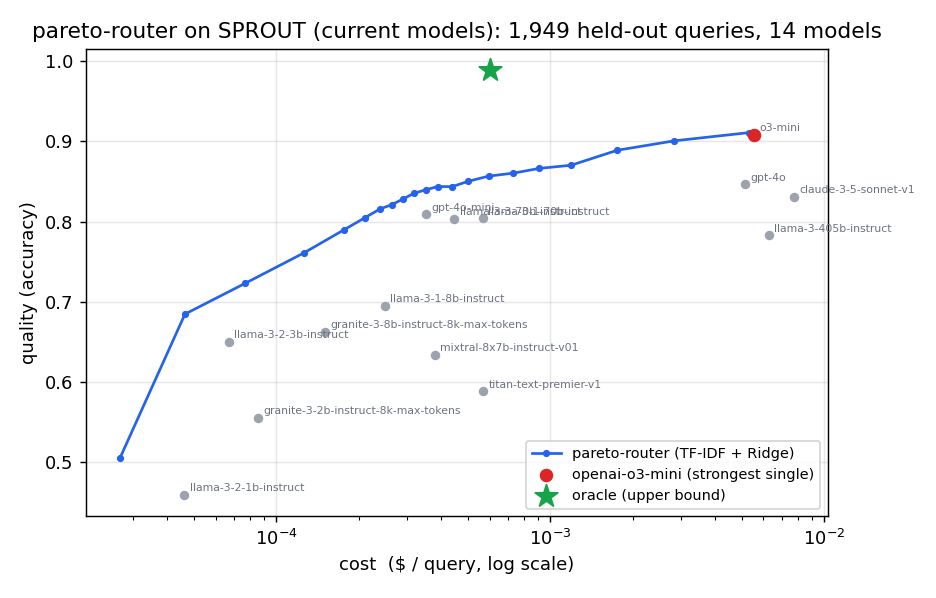
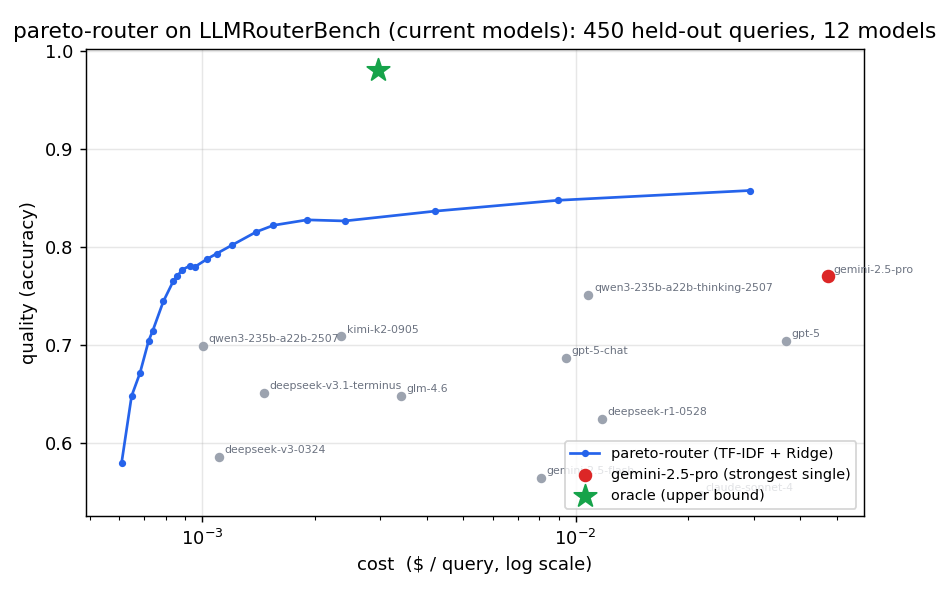
Default benchmark to LLMRouterBench (current frontier models)
Add load_llmrouterbench (Li et al., 2026): the current frontier pool - gpt-5,
claude-sonnet-4, gemini-2.5-pro, qwen3-235b, deepseek-v3.1, kimi-k2, glm-4.6, ...
with each query's real per-call cost; parsing the 1.28 GB archive is cached.
Make it the CLI default and re-plot on it. On 450 held-out queries (12 models):
the router matches gemini-2.5-pro's quality at 98% lower cost, exceeds any single
model at equal cost (0.86 vs 0.77), and dominates all 12.

Add a 'Model-agnostic by design' section: the router never sees a model name, so
a pool is just a dataset (LLMRouterBench / SPROUT / RouterBench / bench_gen). A
public benchmark always trails the newest models; regenerate the dataset, not the
router. Citations verified (LLMRouterBench 2601.07206).

diff --git a/pareto_router/data.py b/pareto_router/data.py
@@ -149,6 +149,88 @@ def load_sprout(variant: str = "o3mini", split: str = "test",
 
 
 # =============================================================================
+# LLMRouterBench - current flagship pool (GPT-5, Claude-4, Gemini-2.5-Pro, ...)
+# =============================================================================
+
+LLMROUTERBENCH_REPO = "NPULH/LLMRouterBench"
+# The current frontier + strong open-weight subset of the 33-model release. Each record
+# already carries a real per-call cost (dollars), so no price table is needed.
+LLMROUTERBENCH_FLAGSHIP = [
+    "gpt-5", "gpt-5-chat", "claude-sonnet-4", "gemini-2.5-pro", "gemini-2.5-flash",
+    "qwen3-235b-a22b-2507", "qwen3-235b-a22b-thinking-2507", "deepseek-v3.1-terminus",
+    "deepseek-r1-0528", "deepseek-v3-0324", "kimi-k2-0905", "glm-4.6",
+]
+
+
+def load_llmrouterbench(models: Optional[List[str]] = None,
+                        cache_dir: Optional[str] = None) -> RoutingDataset:
+    """Load LLMRouterBench (Jan 2026) into a :class:`RoutingDataset`.
+
+    The release is a 1.28 GB archive of ``bench-release/<task>/<model>/*.json`` files;
+    each record has a per-query ``score`` and real ``cost``. Queries are aligned across
+    models by (task, index). Parsing is cached next to the download, so only the first
+    call is slow. ``models`` defaults to the current flagship subset.
+    """
+    import json
+    import os
+    import pickle
+    import tarfile
+
+    _pd, hf_hub_download = _bench_imports()
+    models = list(models or LLMROUTERBENCH_FLAGSHIP)
+    path = hf_hub_download(LLMROUTERBENCH_REPO, "bench-release.tar.gz",
+                           repo_type="dataset", cache_dir=cache_dir)
+    cache = f"{path}.routing-{len(models)}.pkl"
+    if os.path.exists(cache):
+        with open(cache, "rb") as fh:
+            return pickle.load(fh)
+
+    pool = set(models)
+    cells: Dict[tuple, Dict[str, tuple]] = {}
+    prompts: Dict[tuple, str] = {}
+    with tarfile.open(path, "r:gz") as tf:
+        for member in tf:
+            if not member.name.endswith(".json"):
+                continue
+            parts = member.name.split("/")  # bench-release/<task>/<model>/<file>.json
+            if len(parts) < 4 or parts[2] not in pool:
+                continue
+            task, model = parts[1], parts[2]
+            try:
+                payload = json.load(tf.extractfile(member))
+            except Exception:  # pragma: no cover - skip a corrupt shard
+                continue
+            for rec in payload.get("records", []):
+                score, cost = rec.get("score"), rec.get("cost")
+                if score is None or cost is None:
+                    continue
+                key = (task, rec.get("index"))
+                cells.setdefault(key, {})[model] = (float(score), float(cost))
+                prompts.setdefault(key, rec.get("origin_query") or rec.get("prompt") or "")
+
+    keys = sorted(k for k, v in cells.items() if len(v) == len(models))
+    n, m = len(keys), len(models)
+    quality = np.zeros((n, m))
+    cost = np.zeros((n, m))
+    for i, key in enumerate(keys):
+        for j, model in enumerate(models):
+            score, c = cells[key][model]
+            quality[i, j] = score
+            cost[i, j] = c
+    quality = np.clip(quality, 0.0, 1.0)
+    dataset = RoutingDataset(
+        prompts=[prompts[k] for k in keys],
+        models=models,
+        quality=quality,
+        cost=cost,
+        eval_name=np.array([k[0] for k in keys]),
+    )
+    with open(cache, "wb") as fh:
+        pickle.dump(dataset, fh)
+    return dataset
+
+
+# =============================================================================
 # RouterBench - older pool, kept to show the library is model-agnostic
 # =============================================================================
 

diff --git a/pareto_router/cli.py b/pareto_router/cli.py
@@ -6,8 +6,9 @@ import json
 
 
 def _add_dataset_args(parser) -> None:
-    parser.add_argument("--benchmark", default="sprout", choices=["sprout", "routerbench"],
-                        help="routing dataset (default: sprout, current models)")
+    parser.add_argument("--benchmark", default="llmrouterbench",
+                        choices=["llmrouterbench", "sprout", "routerbench"],
+                        help="routing dataset (default: llmrouterbench, current frontier models)")
     parser.add_argument("--variant", default="o3mini", help="SPROUT variant: o3mini | base")
     parser.add_argument("--split", default="0shot", help="RouterBench split: 0shot | 5shot")
 
@@ -17,7 +18,9 @@ def _load(args):
 
     if args.benchmark == "routerbench":
         return datasets.load_routerbench(split=args.split)
-    return datasets.load_sprout(variant=args.variant)
+    if args.benchmark == "sprout":
+        return datasets.load_sprout(variant=args.variant)
+    return datasets.load_llmrouterbench()
 
 
 def _cmd_benchmark(args) -> None:

diff --git a/examples/plot_frontier.py b/examples/plot_frontier.py
@@ -11,11 +11,11 @@ import matplotlib
 matplotlib.use("Agg")
 import matplotlib.pyplot as plt  # noqa: E402
 
-from pareto_router import load_sprout, run_benchmark  # noqa: E402
+from pareto_router import load_llmrouterbench, run_benchmark  # noqa: E402
 
 
 def main() -> None:
-    data = load_sprout("o3mini")
+    data = load_llmrouterbench()
     report = run_benchmark(data)
 
     rc = [p.avg_cost for p in report.router_curve]
@@ -28,7 +28,7 @@ def main() -> None:
     for name, info in report.baselines.items():
         if info["kind"] == "single_model":
             ax.scatter(info["cost"], info["quality"], color="#9ca3af", s=18, zorder=2)
-            ax.annotate(name.split("-", 1)[-1], (info["cost"], info["quality"]),
+            ax.annotate(name, (info["cost"], info["quality"]),
                         fontsize=6, color="#6b7280", xytext=(3, 2), textcoords="offset points")
 
     strongest = report.summary["strongest_model"]
@@ -42,7 +42,7 @@ def main() -> None:
     ax.set_xscale("log")
     ax.set_xlabel("cost  ($ / query, log scale)")
     ax.set_ylabel("quality (accuracy)")
-    ax.set_title(f"pareto-router on SPROUT (current models): {report.n_test:,} held-out queries, {len(report.models)} models")
+    ax.set_title(f"pareto-router on LLMRouterBench (current models): {report.n_test:,} held-out queries, {len(report.models)} models")
     ax.legend(fontsize=8, loc="lower right")
     ax.grid(True, alpha=0.3)
 

diff --git a/pareto_router/__init__.py b/pareto_router/__init__.py
@@ -27,7 +27,8 @@ __all__ = [
 def __getattr__(name):
     # Lazily expose the dataset loaders so importing the package doesn't pull in the
     # optional [bench] dependencies (pandas / huggingface_hub / pyarrow).
-    if name in ("load_sprout", "load_routerbench", "load_frontier", "RoutingDataset", "RouterBench"):
+    if name in ("load_llmrouterbench", "load_sprout", "load_routerbench", "load_frontier",
+                "RoutingDataset", "RouterBench"):
         from . import data
 
         return getattr(data, name)

diff --git a/README.md b/README.md
@@ -3,28 +3,42 @@
 **An LLM router: predict how well each model handles a query, then pick on the
 cost-quality frontier.** Small and dependency-light, it implements RouteLLM's
 predict-quality-then-route paradigm (Ong et al., 2024) and R2-Router's cost-quality
-selection objective (Xue et al., 2026), benchmarked on SPROUT (Somerstep et al., 2025), a
-current-model routing dataset.
+selection objective (Xue et al., 2026), benchmarked on LLMRouterBench (Li et al., 2026), a
+current frontier-model routing dataset.
 
-On 1,949 held-out SPROUT queries across 14 current models (o3-mini, GPT-4o,
-Claude-3.5-Sonnet, Llama-3.3-70B, Llama-3.1-405B, ...), a `pareto-router` trained with
-TF-IDF and ridge regression:
+On 450 held-out LLMRouterBench queries across 12 current models (gpt-5, claude-sonnet-4,
+gemini-2.5-pro, qwen3-235b, deepseek-v3.1, kimi-k2, glm-4.6, ...), a `pareto-router` trained
+with TF-IDF and ridge regression:
 
-- matches 95% of o3-mini's quality (the strongest model) at 84% lower cost;
-- beats the best single model you can buy at any budget (+12.6 quality points at the cheapest budget tier);
-- stays above all 14 individual models on the cost-quality frontier.
+- **matches the strongest model's quality at 98% lower cost** (gemini-2.5-pro: 0.77 at $0.047/query; the router reaches 0.77 at $0.0009);
+- at that model's own price it reaches **0.86 vs 0.77**, because no single model wins every query;
+- **dominates all 12 models** on the cost-quality frontier.
 
-![cost-quality frontier on SPROUT](assets/frontier.png)
+![cost-quality frontier on LLMRouterBench](assets/frontier.png)
 
 The blue line traces the router as you turn the cost/quality knob (`λ`). Each grey dot is
 one model; the router runs above and to the left of all of them. The green star marks the
 per-query oracle, the headroom a stronger featurizer can still reach.
 
+## Model-agnostic by design
+
+The router, predictor, and metrics never see a model name. They operate on arrays of
+per-query quality and cost, so a model pool is just a dataset. This repo ships four:
+**LLMRouterBench** (current frontier, the default), **SPROUT** (Somerstep et al., 2025),
+**RouterBench** (Hu et al., 2024), and **`bench_gen`** to generate one for any pool through
+OpenRouter. The same router code runs on all of them.
+
+That matters because a public benchmark always trails the newest releases by weeks: by the
+time GPT-5.5 or Opus 4.8 has a scored, per-query dataset, there is a newer model. The design
+absorbs that. When new models ship you regenerate the dataset (`bench_gen` with one
+OpenRouter key reaches every provider), not the router.
+
 ## Why this exists
 
-LLM prices span two orders of magnitude, and no single model wins every query. On SPROUT
-the strongest single model (o3-mini) averages 0.91 quality; sending each query to its own
-best model averages 0.99. Route well and you capture much of that gap at a fraction of the cost.
+LLM prices span two orders of magnitude, and no single model wins every query. On
+LLMRouterBench the strongest single model (gemini-2.5-pro) averages 0.77 quality; sending
+each query to its own best model averages 0.98. Route well and you capture much of that gap
+at a fraction of the cost.
 
 The open-source options leave a hole:
 
@@ -34,8 +48,6 @@ The open-source options leave a hole:
 
 `pareto-router` fills the hole: a pip-installable routing-decision library that predicts
 per-model quality and picks on the cost-quality frontier, with a benchmark you run yourself.
-The pool is swappable. It ships loaders for SPROUT (current models) and RouterBench
-(Hu et al., 2024), and any dataset of (prompts, per-model quality, per-model cost) works.
 
 ## Install
 
@@ -47,22 +59,23 @@ pip install "pareto-router[bench]"   # + pandas, huggingface_hub, pyarrow  (to l
 ## Use
 
 ```python
-from pareto_router import RouterModel, load_sprout
+from pareto_router import RouterModel, load_llmrouterbench
 
-data  = load_sprout("o3mini")            # current models: o3-mini, GPT-4o, Claude-3.5-Sonnet, ...
+data  = load_llmrouterbench()            # current frontier pool (1.28 GB, downloaded once and cached)
 model = RouterModel.fit(data)            # TF-IDF + multi-output ridge over the pool
 
 decision = model.route("Prove the halting problem is undecidable.", lam=0.3)
-print(decision.model, decision.predicted_quality)   # e.g. openai-gpt-4o 0.74
+print(decision.model, decision.predicted_quality)   # e.g. qwen3-235b-a22b-2507 0.71
 ```
 
-`lam` is the knob. Set it to 0 to always pick the highest predicted quality, 1 to always
-pick the cheapest, or anything between to slide along the frontier.
+`load_sprout("o3mini")` is a lighter alternative pool if you don't want the LLMRouterBench
+download. `lam` is the knob: 0 always picks the highest predicted quality, 1 the cheapest.
 
 ```bash
-pareto-router benchmark                          # SPROUT, current models (default)
-pareto-router benchmark --benchmark routerbench  # the older 11-model pool
-pareto-router train --out r.pkl                  # train and save a router
+pareto-router benchmark                          # LLMRouterBench, current models (default)
+pareto-router benchmark --benchmark sprout       # a lighter 2024-2025 pool
+pareto-router benchmark --benchmark routerbench  # the older 2023 pool
+pareto-router train --out r.pkl
 pareto-router route "..." --model r.pkl --lam 0.3
 ```
 
@@ -77,41 +90,41 @@ pareto-router route "..." --model r.pkl --lam 0.3
 
 ## The benchmark
 
-`pareto-router benchmark` runs on SPROUT (CARROT, Somerstep et al., 2025): for each query it
-has every model's judge score (quality) and the input/output token counts, from which cost is
-computed with a documented per-model price table. The split is stratified by source dataset,
-the predictor trains on the train half, and `λ` is swept over the held-out half. The router
-decides from predicted quality on queries it never saw.
+`pareto-router benchmark` runs on LLMRouterBench (Li et al., 2026): for each query every
+model carries a graded score (quality) and the real per-call cost from the original run. The
+default pool is the current frontier subset with full coverage, evaluated on the ArenaHard
+family (general, coding, creative, math). The split is stratified by task; the predictor
+trains on the train half; `λ` is swept over the held-out half from predicted quality.
 
 ```
-sprout evaluation  |  train=4545  test=1949  models=14
-strongest single model : openai-o3-mini  quality=0.908  cost=$0.00556
-match strongest quality: cost=$0.00530  (savings 4.7%)
-match 95% of its quality: cost=$0.00091  (savings 83.6%)
-frontier dominates     : 14/14 single models
-frontier AUC (<= strongest cost): router=0.8846  single-model envelope=0.8201
-oracle (upper bound)   : quality=0.989  cost=$0.00060
+llmrouterbench evaluation  |  train=1050  test=450  models=12
+strongest single model : gemini-2.5-pro  quality=0.770  cost=$0.04749
+match strongest quality: cost=$0.00086  (savings 98.2%)
+match 95% of its quality: cost=$0.00079  (savings 98.3%)
+frontier dominates     : 12/12 single models
+frontier AUC (<= strongest cost): router=0.8473  single-model envelope=0.7439
+oracle (upper bound)   : quality=0.981  cost=$0.00295
 
 router vs best affordable single model, by budget:
   budget (xstrongest cost)  best single   router   advantage
-  0.05                           0.695    0.821   +12.6 pts
-  0.15                           0.809    0.860    +5.1 pts
-  0.3                            0.809    0.870    +6.1 pts
-  0.6                            0.809    0.901    +9.2 pts
-  1.0                            0.908    0.911    +0.3 pts
+  0.05                           0.709    0.828   +11.9 pts
+  0.15                           0.709    0.837   +12.8 pts
+  0.3                            0.751    0.848    +9.7 pts
+  0.6                            0.751    0.848    +9.7 pts
+  1.0                            0.770    0.858    +8.8 pts
 ```
 
-Every number above comes from this library on SPROUT-o3mini, not from a paper. Reproduce them
-with `pareto-router benchmark` (about 10 s on a laptop). Run `--benchmark routerbench` for the
-older 11-model pool; the router code does not change, which is the point of a model-agnostic design.
+Every number above comes from this library on LLMRouterBench, not from a paper. Reproduce
+them with `pareto-router benchmark`. The same command with `--benchmark sprout` or
+`--benchmark routerbench` runs a different pool, and the router code does not change.
 
 ### Benchmark your own (current) models
 
 Public routing datasets lag model releases: a new frontier (GPT-5.5, Opus/Sonnet 4.8, Gemini
-3.1 Pro, ...) ships before any public benchmark scores it. `bench_gen/generate_routing_dataset.py`
-builds a fresh `RoutingDataset` for any pool through OpenRouter (one key reaches every provider):
-it runs public exact-match tasks through each model, records OpenRouter's real per-call cost,
-grades deterministically (no LLM judge), and writes a file `load_frontier` reads.
+3.1 Pro) ships before any public benchmark scores it. `bench_gen/generate_routing_dataset.py`
+builds a fresh `RoutingDataset` for any pool through OpenRouter (one key reaches every
+provider): it runs public exact-match tasks through each model, records OpenRouter's real
+per-call cost, grades deterministically (no LLM judge), and writes a file `load_frontier` reads.
 
 ```bash
 export OPENROUTER_API_KEY=sk-or-...
@@ -128,39 +141,39 @@ Then `load_frontier("frontier.jsonl")` feeds the same router, benchmark, and plo
 | --- | --- | --- |
 | Predict per-model quality, then route | RouteLLM (Ong et al., 2024) | Faithful to the paradigm |
 | Cost-quality trade-off objective `S=(1−λ)Q−λC` | R2-Router (Xue et al., 2026) | Faithful to the general selection form |
-| Current-model evaluation data | SPROUT / CARROT (Somerstep et al., 2025) | Used as the benchmark; cost computed from its token counts |
-| Older 11-model evaluation | RouterBench (Hu et al., 2024) | Second loader, shows the library is model-agnostic |
+| Current frontier evaluation (default) | LLMRouterBench (Li et al., 2026) | Used as the benchmark; real per-call cost |
+| Alternative pools | SPROUT (Somerstep et al., 2025), RouterBench (Hu et al., 2024) | Show the design is model-agnostic |
 | TF-IDF + ridge quality predictor | mine | RouteLLM and R2-Router train text embeddings; this is the dependency-light baseline |
 | Multi-model frontier + λ knob + budget mode | mine | RouteLLM routes binary strong/weak; this routes over the full pool |
 | Length-budget-aware routing | R2-Router | Not implemented, see Scope |
 
 ## Scope
 
-- **Cost from token counts.** SPROUT records input/output token counts, not dollars, so cost
-  is computed with a per-model price table (`SPROUT_PRICING`, approximate list prices, editable).
-  The frontier is robust to reasonable price changes; pass `pricing=` to use your own rates.
+- **The default pool is a coverage subset.** LLMRouterBench ran 33 models across 21 tasks;
+  the default uses the 12-model current-frontier subset with full coverage, on the ArenaHard
+  family (1,500 queries). Other pools and tasks are a config away.
 - **The predictor is a baseline.** TF-IDF and ridge stay light on purpose. The oracle reaches
-  0.989 against the router's top of ~0.91; that gap is the headroom a stronger featurizer
+  0.98 against the router's top of ~0.86; that gap is the headroom a stronger featurizer
   (a sentence-transformer through the `Featurizer` protocol) would capture.
 - **No length-budget routing yet.** R2-Router also picks an output-length budget per query,
   which needs per-length data (their R2-Bench) that these datasets lack. On the roadmap.
-- **Older models available too.** `--benchmark routerbench` runs the 2023 pool; SPROUT's pool
-  (o3-mini, GPT-4o, Claude-3.5-Sonnet, Llama-3.3) is current.
 
 ## Module map
 
 | Module | Responsibility |
 | --- | --- |
-| `data.py` | Load SPROUT / RouterBench into quality + cost arrays |
+| `data.py` | Load LLMRouterBench / SPROUT / RouterBench / a generated file into quality + cost arrays |
 | `features.py` | Featurizers (default TF-IDF; pluggable) |
 | `predictor.py` | Multi-output quality regression |
 | `router.py` | Cost-quality selection (`λ` trade-off + budget) |
 | `metrics.py` | Frontier, cost-at-quality, AUC |
 | `benchmark.py` | Train/test evaluation |
 | `model.py` | `RouterModel`: fit / route / save / load |
+| `bench_gen/` | Generate a dataset for any pool via OpenRouter |
 
 ## Papers
 
+- **LLMRouterBench**, Li et al., *A Massive Benchmark and Unified Framework for LLM Routing*, [arXiv:2601.07206](https://arxiv.org/abs/2601.07206), 2026.
 - **CARROT (SPROUT)**, Somerstep et al., *A Cost Aware Rate Optimal Router*, [arXiv:2502.03261](https://arxiv.org/abs/2502.03261), 2025.
 - **RouteLLM**, Ong et al., *Learning to Route LLMs with Preference Data*, [arXiv:2406.18665](https://arxiv.org/abs/2406.18665), 2024.
 - **R2-Router**, Xue et al., *A New Paradigm for LLM Routing with Reasoning*, [arXiv:2602.02823](https://arxiv.org/abs/2602.02823), 2026.
@@ -169,9 +182,8 @@ Then `load_frontier("frontier.jsonl")` feeds the same router, benchmark, and plo
 ## Status
 
 v0.2.0. Tested, CI on Python 3.9 to 3.12, runs offline except for the dataset download.
-Default benchmark is SPROUT (current models). Roadmap: a transformer-embedding featurizer,
-length-budget routing on per-length data, and live provider adapters with token-based cost
-estimation.
+Default benchmark is LLMRouterBench (current frontier models). Roadmap: a transformer-embedding
+featurizer, length-budget routing, and live provider adapters with token-based cost estimation.
 
 ## License
 